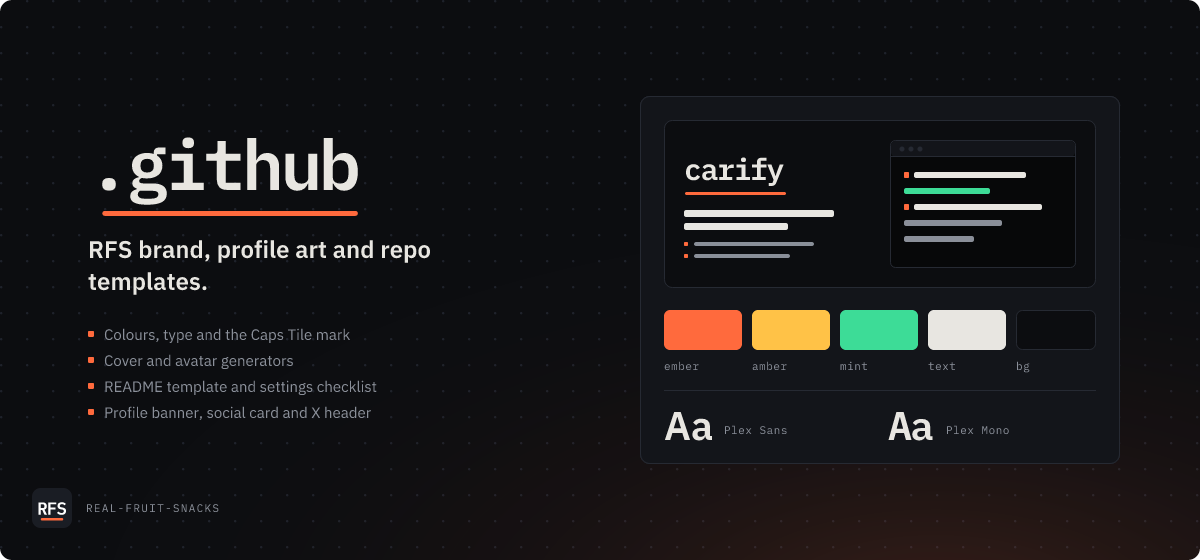
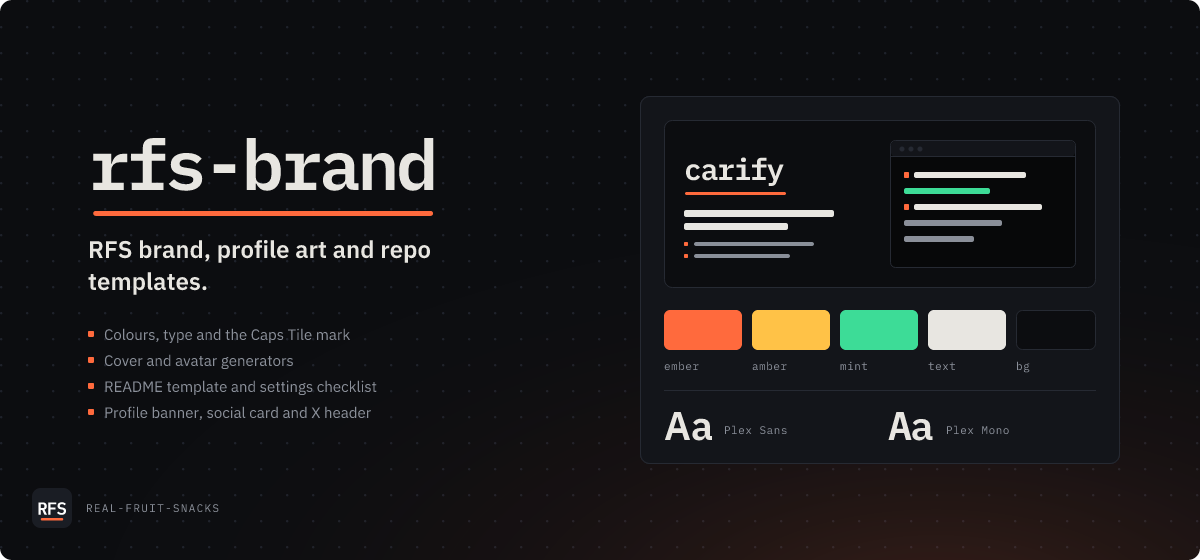
Rename to rfs-brand
Links, clone paths and the cover now use the new name. GitHub redirects the old .github URLs.

Changed region(s): [[0.0617, 0.2429, 0.37, 0.3946]]

diff --git a/tools/make-org-art.py b/tools/make-org-art.py
@@ -7,7 +7,7 @@ usage:
 Reads brand/org.toml (tagline + the tool list shown in the panel) and writes:
     assets/rfs-banner-{dark,light}.svg                1200x400  profile README header (Real-Fruit-Snacks/Real-Fruit-Snacks)
     brand/lockup/rfs-banner-{dark,light}-1600.png     1600x533  same, as PNG
-    brand/social/rfs-social-org-{dark,light}.svg      1280x640  GitHub social preview (.github repo, org links)
+    brand/social/rfs-social-org-{dark,light}.svg      1280x640  social card for links to the profile and the site
     brand/social/rfs-social-org-{dark,light}-1280x640.png
     brand/social/rfs-header-{dark,light}-1500x500.png  X / Mastodon / Bluesky header
 

diff --git a/README.md b/README.md
@@ -1,10 +1,10 @@
-# .github
+# rfs-brand
 
 RFS brand, profile art and repo templates.
 
 <picture>
   <source media="(prefers-color-scheme: dark)" srcset="docs/assets/cover-dark.svg">
-  <img alt=".github: a miniature repo cover, the Ember, Amber and Mint colour swatches, and IBM Plex Sans and Mono specimens" src="docs/assets/cover-light.svg" width="100%">
+  <img alt="rfs-brand: a miniature repo cover, the Ember, Amber and Mint colour swatches, and IBM Plex Sans and Mono specimens" src="docs/assets/cover-light.svg" width="100%">
 </picture>
 
 Org-wide defaults and the RFS identity. Themes are **Nightshift** (dark, default) and **Dayshift** (light); asset filenames keep plain `-dark` / `-light` suffixes so they stay self-describing. Everything that makes the repos under `Real-Fruit-Snacks` look and read like one org lives here.
@@ -23,12 +23,12 @@ Each release has the whole kit as one zip, plus the two token files on their own
 
 | File | Link |
 |---|---|
-| Everything (guide, assets, tokens, tools, templates) | https://github.com/Real-Fruit-Snacks/.github/releases/latest/download/rfs-brand.zip |
-| CSS variables | https://github.com/Real-Fruit-Snacks/.github/releases/latest/download/rfs.css |
-| Design tokens (JSON) | https://github.com/Real-Fruit-Snacks/.github/releases/latest/download/rfs.tokens.json |
+| Everything (guide, assets, tokens, tools, templates) | https://github.com/Real-Fruit-Snacks/rfs-brand/releases/latest/download/rfs-brand.zip |
+| CSS variables | https://github.com/Real-Fruit-Snacks/rfs-brand/releases/latest/download/rfs.css |
+| Design tokens (JSON) | https://github.com/Real-Fruit-Snacks/rfs-brand/releases/latest/download/rfs.tokens.json |
 
 ```powershell
-curl.exe -LO https://github.com/Real-Fruit-Snacks/.github/releases/latest/download/rfs-brand.zip
+curl.exe -LO https://github.com/Real-Fruit-Snacks/rfs-brand/releases/latest/download/rfs-brand.zip
 ```
 
 To publish a release: add a `## X.Y.Z (date)` section to `CHANGELOG.md`, commit, then `git tag vX.Y.Z` and `git push origin vX.Y.Z`. The release workflow checks that the committed SVGs match what the tools generate, builds the zip and publishes it, titled with the tag.
@@ -37,7 +37,7 @@ To publish a release: add a `## X.Y.Z (date)` section to `CHANGELOG.md`, commit,
 
 1. Copy `templates/repo/README.md`, fill it in, delete the HTML comments.
 2. Work through `templates/repo/SETTINGS-CHECKLIST.md`.
-3. Copy `templates/repo/cover.toml` to the repo's `docs/assets/`, fill it in, then `python3 tools/make-cover.py <repo>/docs/assets/cover.toml`. Commit the `cover-*` files; upload `social-dark.png` as the social preview.
+3. Copy `templates/repo/cover.toml` to the repo's `docs/assets/`, fill it in, then `python3 tools/make-cover.py ../<repo>/docs/assets/cover.toml` (from this repo, with the clones side by side). Commit the `cover-*` files; upload `social-dark.png` as the social preview.
 
 ## Changing the brand
 

diff --git a/templates/repo/SETTINGS-CHECKLIST.md b/templates/repo/SETTINGS-CHECKLIST.md
@@ -7,7 +7,7 @@ Run through this once per repo; it's what makes sixteen repos look like one org.
 - [ ] **Topics** (max 6) — at least one language tag and one domain tag:
       languages: `powershell` · `python` · `go` · `shell`
       domains:   `self-hosted` · `windows` · `networking` · `certificates` · `automation`
-- [ ] **Cover + social preview** — fill in `docs/assets/cover.toml` (template: `templates/repo/cover.toml`), run `python3 .github/tools/make-cover.py docs/assets/cover.toml`, commit the `cover-*` files, upload `docs/assets/social-dark.png` (1280×640). Re-run whenever the description changes.
+- [ ] **Cover + social preview** — fill in `docs/assets/cover.toml` (template: `templates/repo/cover.toml`), run `python3 ../rfs-brand/tools/make-cover.py docs/assets/cover.toml`, commit the `cover-*` files, upload `docs/assets/social-dark.png` (1280×640). Re-run whenever the description changes.
 - [ ] **Releases** — tag `vX.Y.Z`, release title = the tag, no codename. Notes: what changed, what broke, nothing else.
 - [ ] **Archived repos** — README body replaced with one line: `Superseded by [repo](link).` Then archive. Never delete.
 - [ ] **Default branch** — `main`.

diff --git a/CHANGELOG.md b/CHANGELOG.md
@@ -2,6 +2,10 @@
 
 Each release publishes `rfs-brand.zip` (everything below except `.github/` and `docs/`), `rfs.css` and `rfs.tokens.json`.
 
+## 1.0.1 (2026-10-26)
+
+- The repo is now `Real-Fruit-Snacks/rfs-brand` (was `Real-Fruit-Snacks/.github`). Old URLs redirect, but update links and clone paths: the tools are run as `rfs-brand/tools/...` from the folder holding your clones.
+
 ## 1.0.0 (2026-10-26)
 
 First release of the RFS brand kit.
